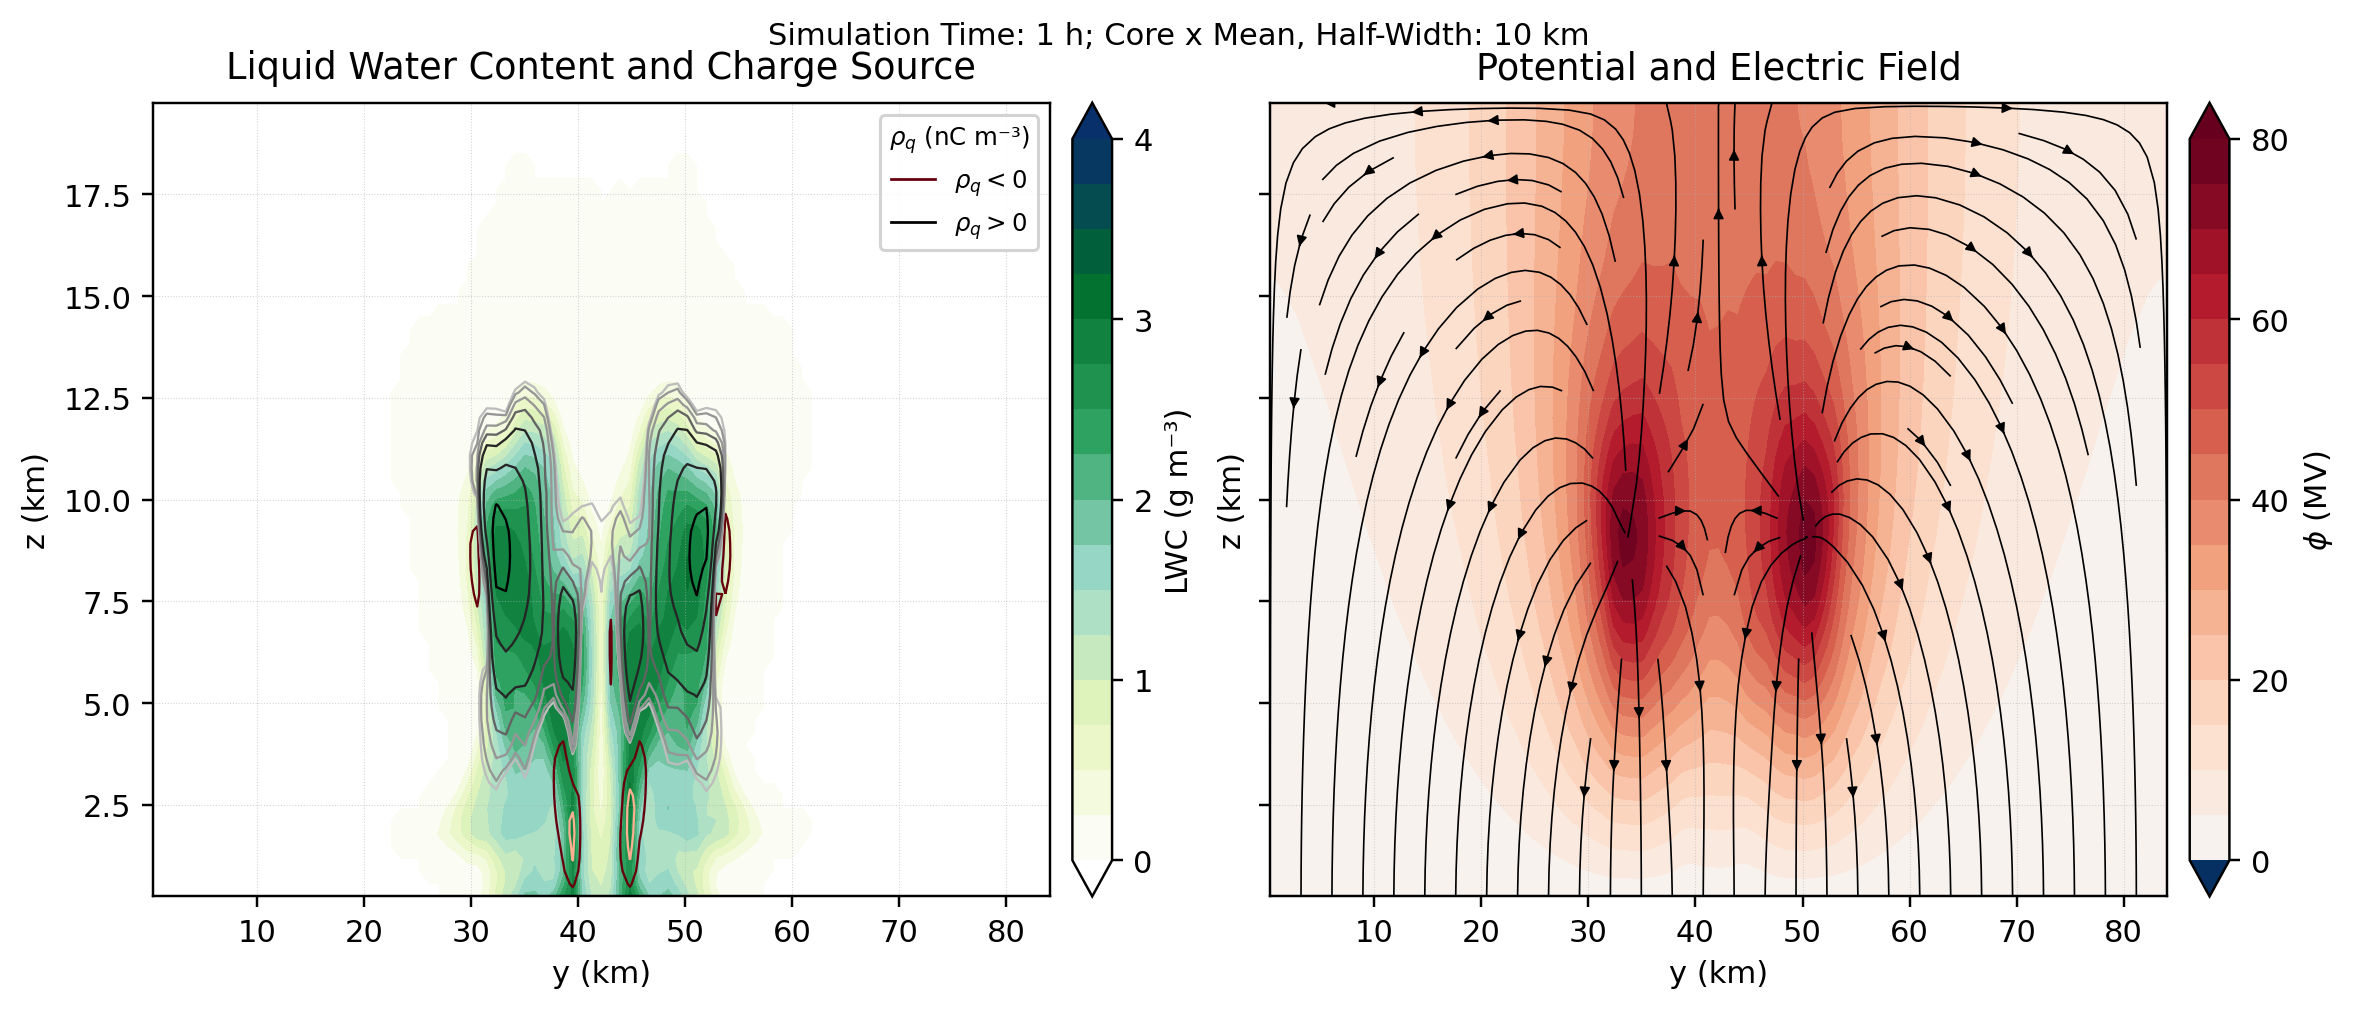
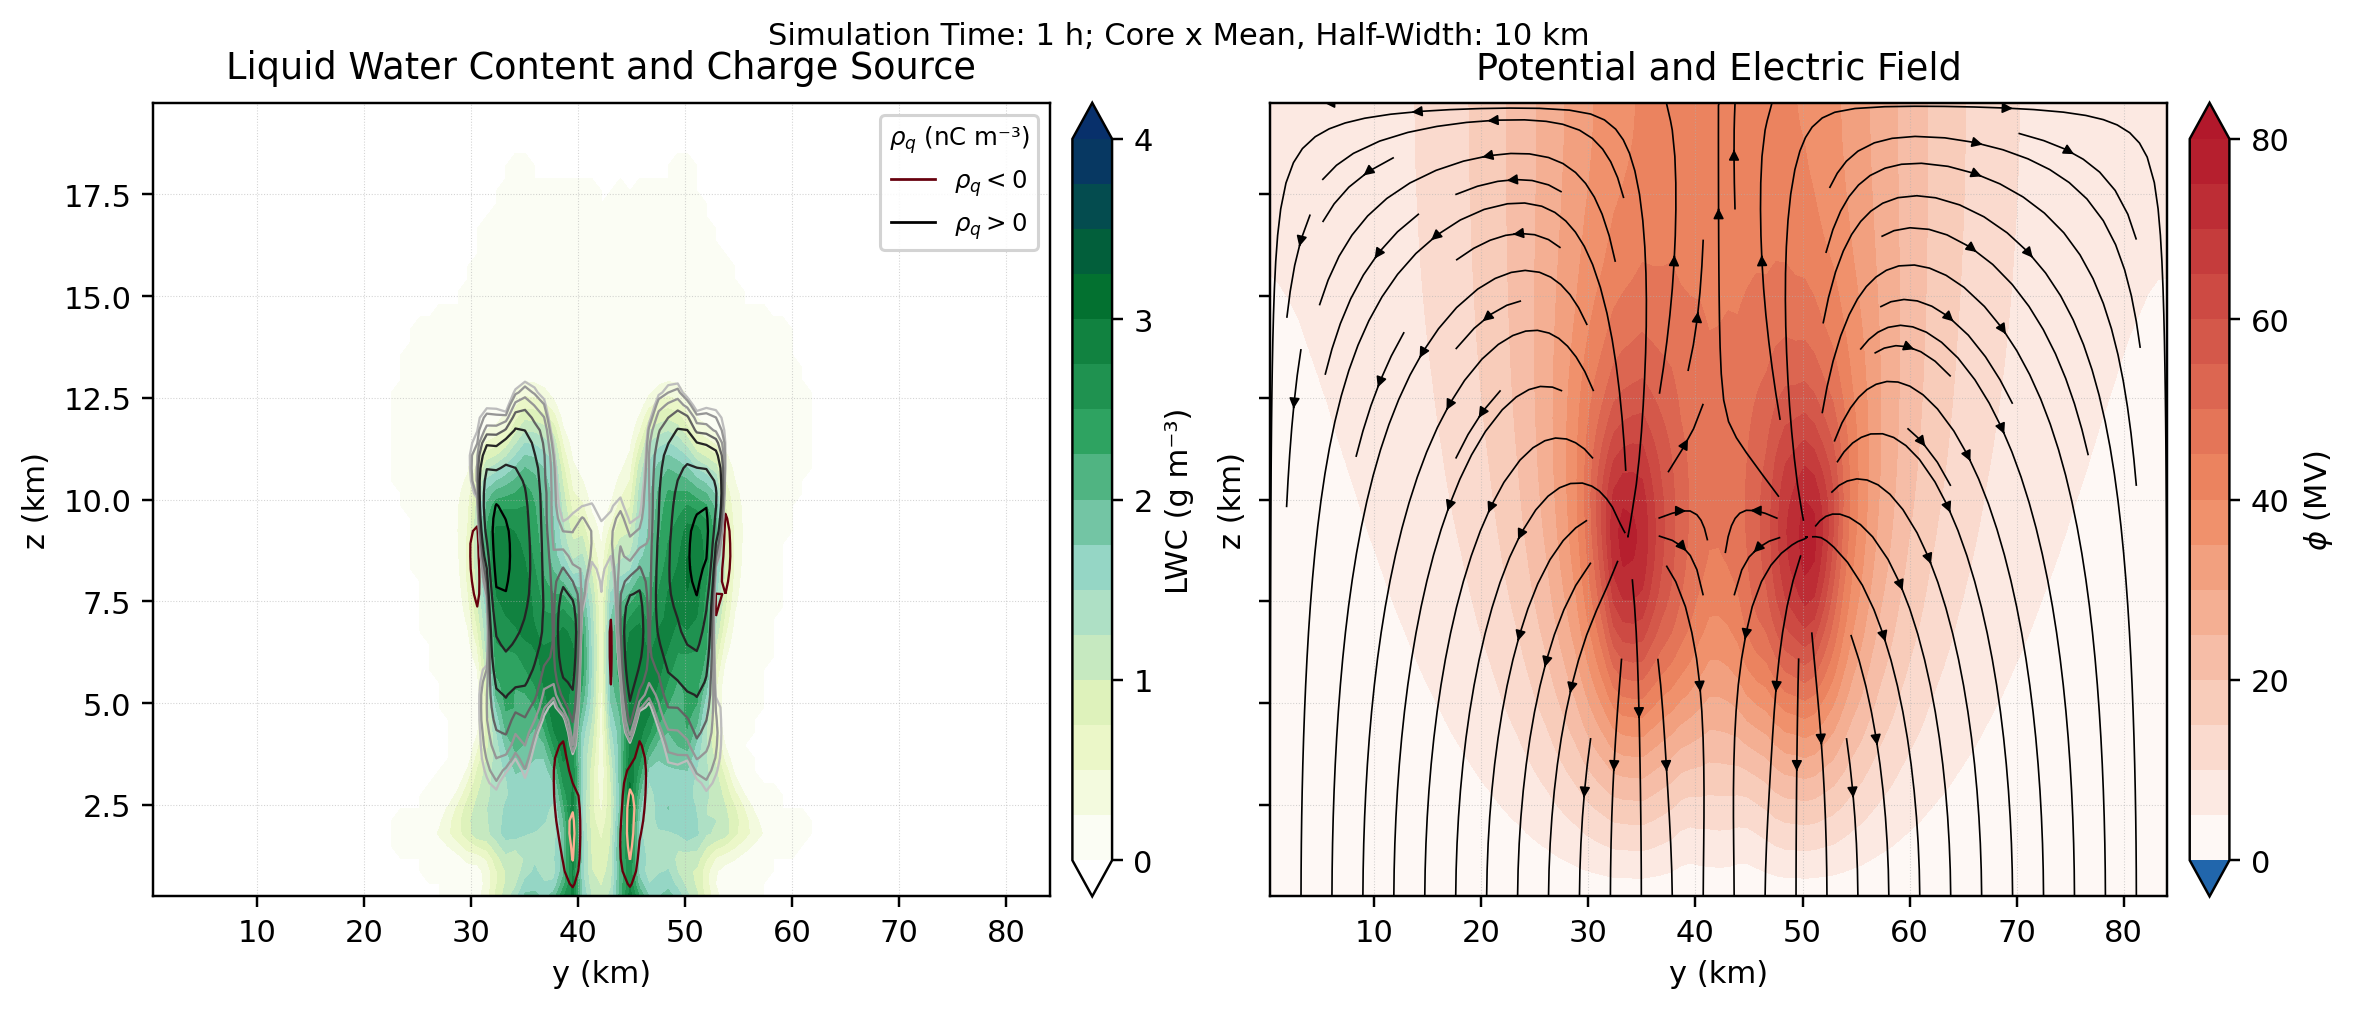
Update Poisson figure color scales

Changed region(s): [[0.6504, 0.3376, 0.8053, 0.6752], [0.9291, 0.1228, 0.9601, 0.399], [0.9291, 0.8287, 0.9601, 0.8901]]

diff --git a/src/core_atmosphere/electrostatic/scripts/run_tier_B_idealized.py b/src/core_atmosphere/electrostatic/scripts/run_tier_B_idealized.py
@@ -23,6 +23,7 @@ import matplotlib
 
 matplotlib.use("Agg")
 import matplotlib.pyplot as plt  # noqa: E402
+from matplotlib.lines import Line2D  # noqa: E402
 
 
 SCRIPT_DIR = pathlib.Path(__file__).resolve().parent
@@ -30,8 +31,9 @@ if str(SCRIPT_DIR) not in sys.path:
     sys.path.insert(0, str(SCRIPT_DIR))
 
 import free_space_charge_analytics as analytic  # noqa: E402
+import plot_charge_coupled_supercell as charge_style  # noqa: E402
 import run_tier_A1_cartesian_mms as tier_a1  # noqa: E402
-from run_tripole_supercell import centerline_indices  # noqa: E402
+from run_tripole_supercell import centerline_indices, overlay_field_lines  # noqa: E402
 
 
 REPO_ROOT = pathlib.Path(__file__).resolve().parents[4]
@@ -40,9 +42,16 @@ FIGURE_DIR = PAPER_DIR / "figures"
 
 KM_PER_M = 1.0e-3
 KVM_PER_VM = 1.0e-3
+MV_PER_V = 1.0e-6
+NC_PER_C = 1.0e9
 DEFAULT_POINT_CHARGE = 20.0
 DEFAULT_POINT_SIGMA = 2000.0
 DEFAULT_POINT_MAX_RADIUS = 25000.0
+TRIPOLE_PHI_COLORBAR_LABEL = r"$\phi$ (MV)"
+TRIPOLE_EMAG_COLORBAR_LABEL = r"$|E|$ (kV m$^{-1}$)"
+TRIPOLE_NEGATIVE_CHARGE_COLORS = charge_style.NEGATIVE_CHARGE_CONTOUR_COLORS
+TRIPOLE_POSITIVE_CHARGE_COLORS = charge_style.POSITIVE_CHARGE_CONTOUR_COLORS
+TRIPOLE_CHARGE_LINESTYLE = charge_style.CHARGE_CONTOUR_LINESTYLE
 
 
 def parse_args(argv=None):
@@ -337,6 +346,69 @@ def _section_indices(fields):
     return centerline_indices(np.asarray(fields["x"], dtype=float), np.asarray(fields["y"], dtype=float))
 
 
+def tripole_plot_quantities(fields, section):
+    """Return Tier B.2 vertical-section quantities in paper plotting units."""
+    y = np.broadcast_to(fields["y"][section], fields["zmid"][:, section].shape)
+    z = fields["zmid"][:, section]
+    return {
+        "y_km": y * KM_PER_M,
+        "z_km": z * KM_PER_M,
+        "phi_mv": fields["phi"][:, section] * MV_PER_V,
+        "e_mag_kv_m": fields["E_mag"][:, section] * KVM_PER_VM,
+        "rho_nc_m3": fields["rho"][:, section] * NC_PER_C,
+        "e_y": fields["E_y"][:, section],
+        "e_z": fields["E_z"][:, section],
+    }
+
+
+def tripole_phi_colormap():
+    """Return the shared signed potential colormap."""
+    return charge_style.phi_colormap()
+
+
+def tripole_positive_colormap():
+    """Return the shared positive-field colormap with white at zero."""
+    return charge_style.lwc_colormap()
+
+
+def _style_tripole_axis(ax):
+    ax.set_xlabel("y (km)")
+    ax.set_ylabel("z (km)")
+    ax.grid(True, linestyle=":", linewidth=0.35, alpha=0.55)
+
+
+def _add_charge_contour_legend(ax):
+    handles = [
+        Line2D(
+            [0],
+            [0],
+            color=TRIPOLE_NEGATIVE_CHARGE_COLORS[-1],
+            lw=0.9,
+            ls=TRIPOLE_CHARGE_LINESTYLE,
+            label=r"$\rho_q < 0$",
+        ),
+        Line2D(
+            [0],
+            [0],
+            color=TRIPOLE_POSITIVE_CHARGE_COLORS[-1],
+            lw=0.9,
+            ls=TRIPOLE_CHARGE_LINESTYLE,
+            label=r"$\rho_q > 0$",
+        ),
+    ]
+    ax.legend(
+        handles=handles,
+        title=r"$\rho_q$ (nC m$^{-3}$)",
+        loc="upper right",
+        fontsize=8,
+        title_fontsize=8,
+        frameon=True,
+        framealpha=0.86,
+        borderpad=0.35,
+        handlelength=1.8,
+    )
+
+
 def _plot_section(ax, y, z, values, title, cmap, contour_values=None, contour_color="k"):
     mesh = ax.contourf(y * KM_PER_M, z * KM_PER_M, values, levels=31, cmap=cmap)
     if contour_values is not None:
@@ -365,58 +437,77 @@ def plot_tripole(output_nc, figure_path):
     fields = read_fields(output_nc)
     metrics = tripole_metrics(fields)
     section = _section_indices(fields)
-    y = np.broadcast_to(fields["y"][section], fields["zmid"][:, section].shape)
-    z = fields["zmid"][:, section]
-    phi = fields["phi"][:, section]
-    e_mag = fields["E_mag"][:, section] * KVM_PER_VM
-    rho = fields["rho"][:, section]
-    e_y = fields["E_y"][:, section]
-    e_z = fields["E_z"][:, section]
+    quantities = tripole_plot_quantities(fields, section)
+    y_km = quantities["y_km"]
+    z_km = quantities["z_km"]
+    phi_mv = quantities["phi_mv"]
+    e_mag_kv_m = quantities["e_mag_kv_m"]
+    rho_nc_m3 = quantities["rho_nc_m3"]
+    e_y = quantities["e_y"]
+    e_z = quantities["e_z"]
 
     figure_path = expanded(figure_path)
     figure_path.parent.mkdir(parents=True, exist_ok=True)
-    fig, axes = plt.subplots(1, 2, figsize=(8.2, 3.8), sharey=True)
+    fig, axes = plt.subplots(1, 2, figsize=(10.6, 4.35), sharey=True, constrained_layout=True)
 
-    phi_mesh = _plot_section(
+    phi_levels, phi_ticks, phi_norm = charge_style.signed_filled_levels(phi_mv)
+    charge_style.contourf_from_samples(
+        fig,
         axes[0],
-        y,
-        z,
-        phi,
-        r"potential $\varphi$",
-        "RdBu_r",
-        contour_values=rho,
+        y_km,
+        z_km,
+        phi_mv,
+        levels=phi_levels,
+        cmap=tripole_phi_colormap(),
+        norm=phi_norm,
+        colorbar_label=TRIPOLE_PHI_COLORBAR_LABEL,
+        ticks=phi_ticks,
     )
-    stride_y = max(1, y.shape[1] // 24)
-    stride_z = max(1, y.shape[0] // 12)
-    axes[0].quiver(
-        y[::stride_z, ::stride_y] * KM_PER_M,
-        z[::stride_z, ::stride_y] * KM_PER_M,
-        e_y[::stride_z, ::stride_y],
-        e_z[::stride_z, ::stride_y],
-        color="0.1",
-        alpha=0.55,
-        scale_units="xy",
-        angles="xy",
-        scale=None,
-        width=0.0025,
+    charge_style.overlay_signed_contours(axes[0], y_km, z_km, rho_nc_m3)
+    overlay_field_lines(
+        axes[0],
+        y_km.ravel(),
+        z_km.ravel(),
+        e_y.ravel(),
+        e_z.ravel(),
+        nx=75,
+        ny=55,
     )
-    fig.colorbar(phi_mesh, ax=axes[0], fraction=0.046, pad=0.04, label="V")
+    axes[0].set_title("Potential and Electric Field", pad=8)
+    _style_tripole_axis(axes[0])
+    _add_charge_contour_legend(axes[0])
 
-    emag_mesh = _plot_section(
+    emag_levels, emag_ticks = charge_style.positive_filled_levels(e_mag_kv_m)
+    charge_style.contourf_from_samples(
+        fig,
         axes[1],
-        y,
-        z,
-        e_mag,
-        r"$|E|$",
-        "magma",
-        contour_values=rho,
-        contour_color="w",
+        y_km,
+        z_km,
+        e_mag_kv_m,
+        levels=emag_levels,
+        cmap=tripole_positive_colormap(),
+        norm=None,
+        colorbar_label=TRIPOLE_EMAG_COLORBAR_LABEL,
+        ticks=emag_ticks,
     )
-    axes[1].plot(metrics["peak_y"] * KM_PER_M, metrics["peak_z"] * KM_PER_M, "co", markersize=4)
-    fig.colorbar(emag_mesh, ax=axes[1], fraction=0.046, pad=0.04, label=r"kV m$^{-1}$")
-    fig.suptitle("Tier B.2 synthetic thundercloud tripole", y=0.98)
-    fig.tight_layout(rect=[0.0, 0.0, 1.0, 0.94])
-    fig.savefig(figure_path)
+    charge_style.overlay_signed_contours(axes[1], y_km, z_km, rho_nc_m3)
+    axes[1].plot(
+        metrics["peak_y"] * KM_PER_M,
+        metrics["peak_z"] * KM_PER_M,
+        "o",
+        color="#00a6d6",
+        markeredgecolor="white",
+        markeredgewidth=0.7,
+        markersize=4.5,
+    )
+    axes[1].set_title("Electric Field Magnitude", pad=8)
+    _style_tripole_axis(axes[1])
+
+    for ax in axes:
+        ax.set_xlim(float(np.nanmin(y_km)), float(np.nanmax(y_km)))
+        ax.set_ylim(float(np.nanmin(z_km)), float(np.nanmax(z_km)))
+
+    fig.savefig(figure_path, bbox_inches="tight")
     plt.close(fig)
 
     return {

diff --git a/src/core_atmosphere/electrostatic/tests/test_tier_B_script.py b/src/core_atmosphere/electrostatic/tests/test_tier_B_script.py
@@ -5,6 +5,7 @@ import importlib.util
 import pathlib
 import tempfile
 import unittest
+from unittest import mock
 
 import numpy as np
 
@@ -87,6 +88,70 @@ class TierBIdealizedFigureTests(unittest.TestCase):
         self.assertEqual(metrics["peak_e"], 12.0)
         self.assertEqual(metrics["peak_z"], 4000.0)
         self.assertEqual(metrics["peak_x"], 1000.0)
+
+    def test_tripole_style_matches_charge_coupled_theme(self):
+        script = load_script()
+
+        self.assertEqual(
+            script.TRIPOLE_NEGATIVE_CHARGE_COLORS,
+            script.charge_style.NEGATIVE_CHARGE_CONTOUR_COLORS,
+        )
+        self.assertEqual(
+            script.TRIPOLE_POSITIVE_CHARGE_COLORS,
+            script.charge_style.POSITIVE_CHARGE_CONTOUR_COLORS,
+        )
+        self.assertEqual(script.TRIPOLE_CHARGE_LINESTYLE, "solid")
+        self.assertEqual(script.TRIPOLE_PHI_COLORBAR_LABEL, r"$\phi$ (MV)")
+        self.assertEqual(script.TRIPOLE_EMAG_COLORBAR_LABEL, r"$|E|$ (kV m$^{-1}$)")
+        self.assertTrue(np.allclose(script.tripole_phi_colormap()(0.5)[:3], (1.0, 1.0, 1.0)))
+        self.assertTrue(
+            np.allclose(script.tripole_positive_colormap()(0.0)[:3], (1.0, 1.0, 1.0))
+        )
+
+    def test_tripole_plot_quantities_use_paper_units(self):
+        script = load_script()
+        fields = {
+            "y": np.array([0.0, 2000.0, 4000.0]),
+            "zmid": np.array([[1000.0, 1000.0, 1000.0], [3000.0, 3000.0, 3000.0]]),
+            "phi": np.array([[1.0e6, -2.0e6, 3.0e6], [4.0e6, -5.0e6, 6.0e6]]),
+            "E_mag": np.array([[1000.0, 2000.0, 3000.0], [4000.0, 5000.0, 6000.0]]),
+            "rho": np.array([[1.0e-11, -2.0e-11, 3.0e-11], [4.0e-11, -5.0e-11, 6.0e-11]]),
+            "E_y": np.ones((2, 3)),
+            "E_z": -np.ones((2, 3)),
+        }
+
+        quantities = script.tripole_plot_quantities(fields, np.array([0, 2]))
+
+        self.assertTrue(np.allclose(quantities["y_km"], [[0.0, 4.0], [0.0, 4.0]]))
+        self.assertTrue(np.allclose(quantities["z_km"], [[1.0, 1.0], [3.0, 3.0]]))
+        self.assertTrue(np.allclose(quantities["phi_mv"], [[1.0, 3.0], [4.0, 6.0]]))
+        self.assertTrue(np.allclose(quantities["e_mag_kv_m"], [[1.0, 3.0], [4.0, 6.0]]))
+        self.assertTrue(np.allclose(quantities["rho_nc_m3"], [[0.01, 0.03], [0.04, 0.06]]))
+
+    def test_tripole_plot_uses_field_line_overlay(self):
+        script = load_script()
+        fields = {
+            "x": np.array([0.0, 1000.0, 2000.0]),
+            "y": np.array([0.0, 1000.0, 2000.0]),
+            "zmid": np.array([[1000.0, 1000.0, 1000.0], [3000.0, 3000.0, 3000.0]]),
+            "phi": np.array([[1.0e6, -2.0e6, 1.0e6], [2.0e6, -3.0e6, 2.0e6]]),
+            "E_mag": np.array([[1000.0, 2500.0, 1200.0], [1400.0, 2800.0, 1600.0]]),
+            "rho": np.array([[1.0e-11, -2.0e-11, 1.0e-11], [2.0e-11, -3.0e-11, 2.0e-11]]),
+            "E_y": np.ones((2, 3)),
+            "E_z": -np.ones((2, 3)),
+            "residual": 1.0e-10,
+        }
+        with tempfile.TemporaryDirectory() as tmp:
+            output = pathlib.Path(tmp) / "tripole.pdf"
+            with mock.patch.object(script, "read_fields", return_value=fields), mock.patch.object(
+                script, "_section_indices", return_value=np.array([0, 1, 2])
+            ), mock.patch.object(script, "overlay_field_lines", return_value=True, create=True) as overlay:
+                script.plot_tripole(pathlib.Path("unused.nc"), output)
+
+            self.assertTrue(output.exists())
+            overlay.assert_called_once()
+            self.assertEqual(overlay.call_args.kwargs["nx"], 75)
+            self.assertEqual(overlay.call_args.kwargs["ny"], 55)
 
     def test_write_summary_json_serializes_numpy_values(self):
         script = load_script()

diff --git a/src/core_atmosphere/electrostatic/scripts/plot_charge_coupled_supercell.py b/src/core_atmosphere/electrostatic/scripts/plot_charge_coupled_supercell.py
@@ -390,6 +390,23 @@ def lwc_colormap():
     )
 
 
+def phi_colormap():
+    """Return a signed potential colormap with white fixed at zero."""
+    from matplotlib.colors import LinearSegmentedColormap
+
+    return LinearSegmentedColormap.from_list(
+        "phi_zero_white_rdbu",
+        (
+            (0.0, "#2166ac"),
+            (0.25, "#67a9cf"),
+            (0.5, "#ffffff"),
+            (0.75, "#ef8a62"),
+            (1.0, "#b2182b"),
+        ),
+        N=257,
+    )
+
+
 def signed_line_levels(values, negative_count=6, positive_count=4):
     """Return negative and positive contour levels for a signed field."""
     finite = np.asarray(values)[np.isfinite(values)]
@@ -657,7 +674,7 @@ def plot_charge_coupled_output(
         z_km,
         phi,
         levels=phi_levels,
-        cmap="RdBu_r",
+        cmap=phi_colormap(),
         norm=phi_norm,
         colorbar_label=PHI_COLORBAR_LABEL,
         ticks=phi_ticks,

diff --git a/src/core_atmosphere/electrostatic/tests/test_charge_coupled_supercell_plot.py b/src/core_atmosphere/electrostatic/tests/test_charge_coupled_supercell_plot.py
@@ -165,6 +165,13 @@ class ChargeCoupledSupercellPlotTests(unittest.TestCase):
 
         self.assertTrue(np.allclose(cmap(0.0)[:3], (1.0, 1.0, 1.0)))
 
+    def test_phi_colormap_centers_zero_at_white(self):
+        script = load_script()
+
+        cmap = script.phi_colormap()
+
+        self.assertTrue(np.allclose(cmap(0.5)[:3], (1.0, 1.0, 1.0)))
+
     def test_positive_filled_levels_use_round_upper_bound_and_ticks(self):
         script = load_script()
 
